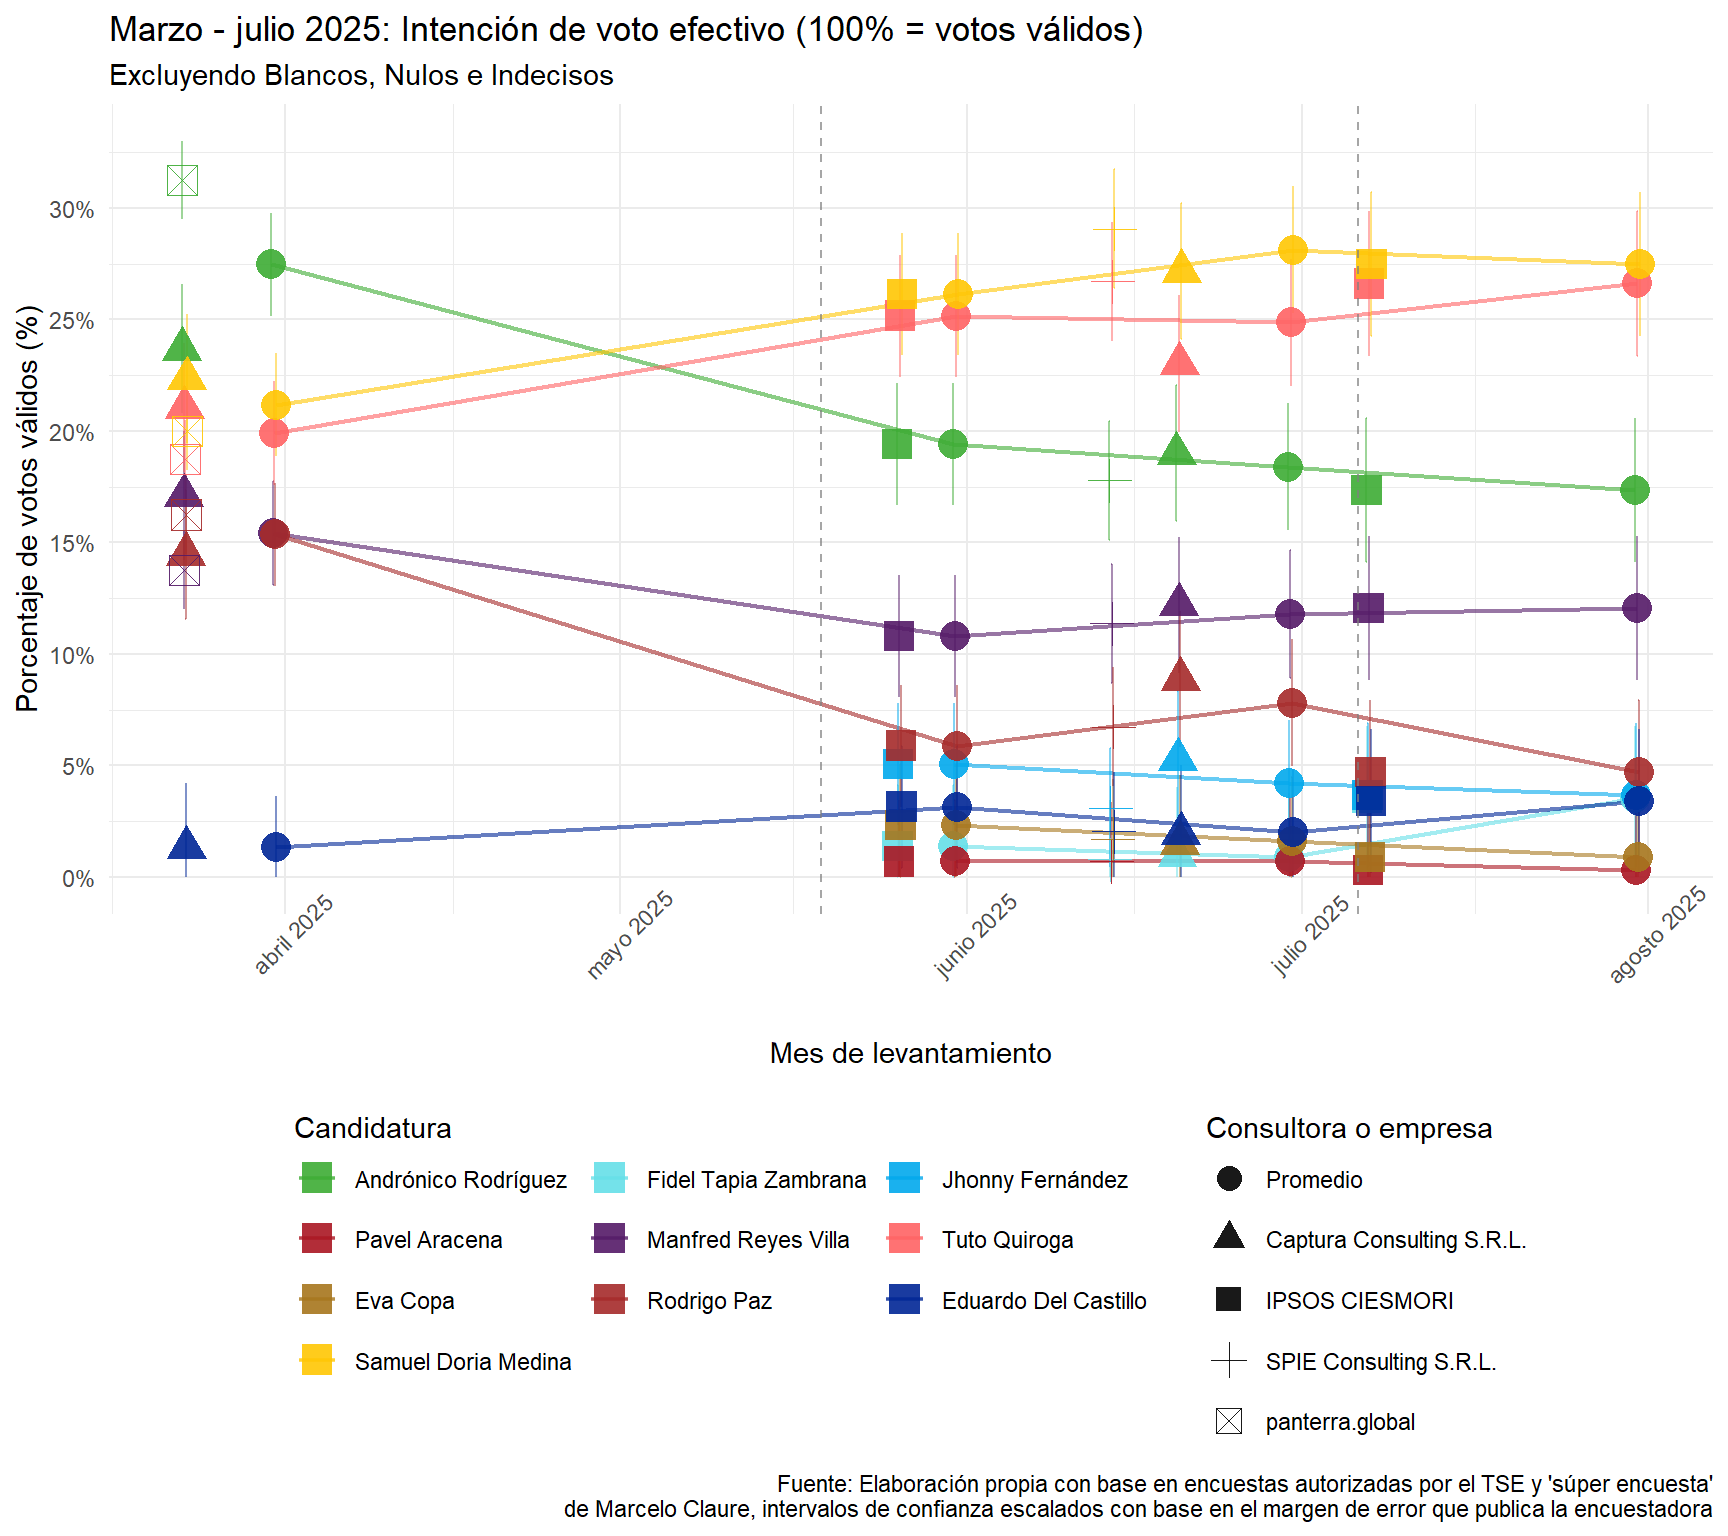
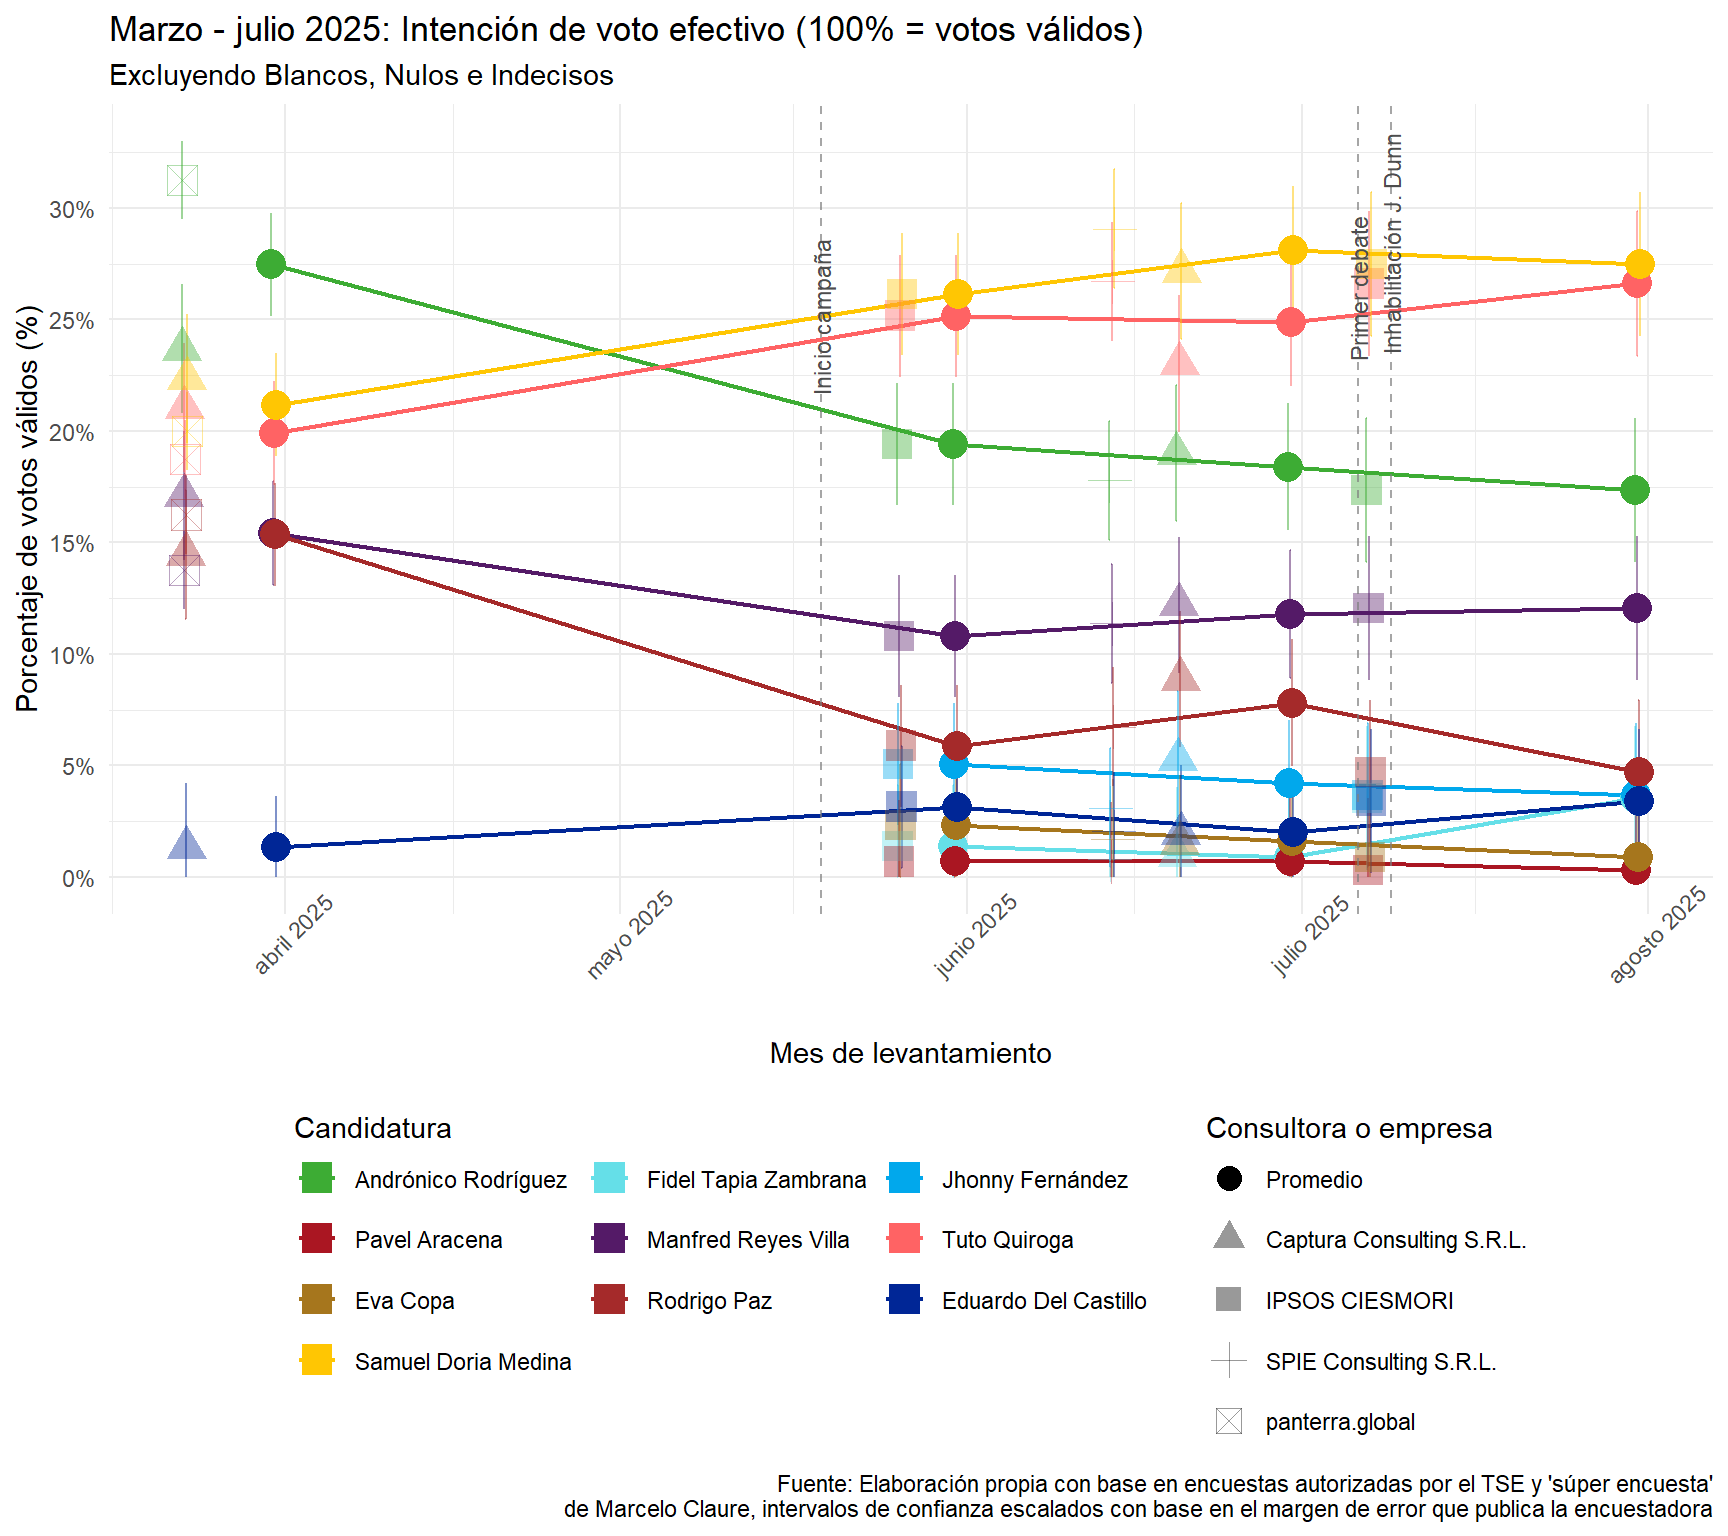
Built site for gh-pages

diff --git a/index.html b/index.html
@@ -141,7 +141,7 @@ ul.task-list li input[type="checkbox"] {
 <header id="title-block-header" class="quarto-title-block default">
 <div class="quarto-title">
 <h1 class="title">Encuesta de encuestas: Elecciones Generales Bolivia 2025</h1>
-<p class="subtitle lead">Última actualización: 13 de julio de 2025</p>
+<p class="subtitle lead">Última actualización: 14 de julio de 2025</p>
 </div>
 
 <div>
@@ -175,7 +175,8 @@ ul.task-list li input[type="checkbox"] {
 
 <section id="registro-de-cambios" class="level2">
 <h2 class="anchored" data-anchor-id="registro-de-cambios">Registro de cambios</h2>
-<p><strong>13/07/2025</strong>: Se añaden los datos de la última encuesta de IPSOS CIESMORI publicada por UNITEL el 13 de julio de 2025. Se optimiza el código para mostrar los promedios de campaña en función de la encuesta más reciente de cada consultora o empresa encuestadora (i.e.&nbsp;IPSOS CIESMORI es la única empresa que cuenta con dos encuestas durante el periodo de campaña, el cálculo de los promedio se hace con la intención de voto de su encuesta publicada hoy, es decir, el más reciente). Se añade nueva sección con los valores de intención de voto más recientes. Dado que NGP se ha retirado de la carrera electoral sus valores quedarán como perdidos de ahora en adelante. Se añaden rectas verticales marcandl algunos hitos como el inicio de campaña y el primer debate.</p>
+<p><strong>14/07/2025</strong>: Se introducen algunas ideas a la luz de los datos arrojados por la última encuesta de IPSOS CIESMORI. Se actualiza la presentación.</p>
+<p><strong>13/07/2025</strong>: Se añaden los datos de la última encuesta de IPSOS CIESMORI publicada por UNITEL el 13 de julio de 2025. Se optimiza el código para mostrar los promedios de campaña en función de la encuesta más reciente de cada consultora o empresa encuestadora (i.e.&nbsp;IPSOS CIESMORI es la única empresa que cuenta con dos encuestas durante el periodo de campaña, el cálculo de los promedio se hace con la intención de voto de su encuesta publicada hoy, es decir, el más reciente). Se añade nueva sección con los valores de intención de voto de la encuesta más reciente. Dado que NGP se ha retirado de la carrera electoral sus valores quedarán como perdidos de ahora en adelante. Se añaden rectas verticales marcando algunos hitos como el inicio de campaña, el primer debate y la inhabilitación de Jaime Dunn.</p>
 <p><strong>02/07/2025</strong>: Ante la inhabilitación de Jaime Dunn se cambia la etiqueta de candidato de NGP a Fidel Tapia Zambrana. La salida de Antonio Saravia también deja como el único candidato visible a Pavel Aracena por LyP-ADN. Modificaciones estéticas en gráficas de intención de voto para que den cuenta de la fecha del fin del levantamiento de las encuestas, se agrupó mayo y junio para gráficas de intención voto desde el inicio de campaña.</p>
 <p><strong>01/07/2025</strong>: Añadidas etiqueta de datos sobre barras promedio en gráficas de intención voto total e intención voto válido.</p>
 <p><strong>30/06/2025</strong>: Se añade información de la segunda encuesta de Captura Consulting publicada por Red Uno y RTP publicada en esta fecha. También se agrega la primera encuesta de la misma consultora, que corresponde al periodo de fines de marzo. Se introducen algunas modificaciones menores al análisis e interpretación en función de la nueva información. Optimizaciones, cambios estéticos menores en gráficas y correción ortográfica y de estilo del texto.</p>
@@ -185,14 +186,21 @@ ul.task-list li input[type="checkbox"] {
 <h2 class="anchored" data-anchor-id="presentación">Presentación</h2>
 <p>Este es un ejercicio de análisis electoral y visualización de datos inspirado en el trabajo de <a href="https://polls.politico.mx/">Político.mx</a>, la idea es recopilar en una base de datos públicas las encuestas oficiales (y tal vez las no oficiales) para compararlas en el tiempo. La base de datos se encuentra en este <a href="https://docs.google.com/spreadsheets/d/1Nr5mlVI1PAIXpaOtmRugJbwyriQYlAUt5Ldehq8VZ6E/edit?gid=0#gid=0">archivo de sheets</a> y el diccionario de datos en este <a href="https://docs.google.com/spreadsheets/d/1VJZkKd5dDWnHzbOO3G4o7yeW8jh1GZJIhykaApI05MQ/edit?gid=1761737635#gid=1761737635">otro</a></p>
 <p>Si quieres saber quién soy yo, puedes consultar mi linkedIn <a href="https://www.linkedin.com/in/hescalar/">aquí</a>.</p>
-<p>En esta primera versión he optado por cubrir la mayor cantidad de información disponible y que sea mínimamente comparable. En este sentido, se han incluido dos encuestas no “oficiales”, es decir, que no se encontraban autorizadas ni fueron fiscalizadas por el Tribunal Supremo Electoral TSE al momento de su realización -pues todavía no había necesidad de ello, según los tiempos electorales marcados por el calendario electoral del TSE. Me refiero a la “súper encuesta” de Marcelo Claure y la consultora “panterra.global” y a la primera encuesta que realizó Captura Consulting para Red UNO y RTP. Ambas operaciones estadísticas corresponden al periodo de marzo del presente año.</p>
+<p>Se ha buscado cubrir la mayor cantidad de información disponible y que sea mínimamente comparable. En este sentido, se han incluido dos encuestas no “oficiales”, es decir, que no se encontraban autorizadas ni fueron fiscalizadas por el Tribunal Supremo Electoral TSE al momento de su realización -pues todavía no había necesidad de ello, según los tiempos electorales marcados por el calendario electoral del TSE. Me refiero a la “súper encuesta” de Marcelo Claure y la consultora “panterra.global” y a la primera encuesta que realizó Captura Consulting para Red UNO y RTP. Ambas operaciones estadísticas corresponden al periodo de marzo del presente año y no reflejaban exactamente los mismos candidatos pero sí casi todas las fuerzas políticas (i.e.&nbsp;el contendiente del MAS era Lucho Arce y el de PDC era Chi Hyun Chung y no Rodrigo Paz); de todas maneras, los tres candidatos que ocupaban los tres primeros lugares sí con comparables.</p>
 <p>Si bien hay sondeos de opinión todavía más antiguos, partir de tres meses atrás parece ser un buen punto de referencia para observar y explicar algunos cambios recientes en las tendencias. Sin embargo, espero que las encuestas a publicarse en el futuro puedan brindar una base sólida para emprender análisis con mayor potencia estadística y mayor complejidad en la reflexión.</p>
+<p>Las tareas pendientes identificadas son:</p>
+<ol type="1">
+<li><p>Análisis del comportamiento del voto oculto/indecisos.</p></li>
+<li><p>Análisis histórico de la precisión de las encuestadoras en elecciones pasadas.</p></li>
+<li><p>Análisis histórico del voto rural y su subestimación en las encuestas.</p></li>
+<li><p>Breve revisión del padrón electoral.</p></li>
+</ol>
 </section>
 <section id="intención-de-voto-bolivia-última-encuesta-disponible" class="level2">
 <h2 class="anchored" data-anchor-id="intención-de-voto-bolivia-última-encuesta-disponible">Intención de voto Bolivia: Última encuesta disponible</h2>
 <p>Fecha de publicación: 13 de julio</p>
 <p>Consultora o empresa encuestadora: IPSOS CIESMORI</p>
-<p>Medio de publicaciónx: UNITEL</p>
+<p>Medio de publicación: UNITEL</p>
 <div class="cell">
 <div class="cell-output-display">
 <p><img src="index_files/figure-html/grafico-ultimaencuesta-1.png" class="img-fluid" width="864"></p>
@@ -211,15 +219,15 @@ ul.task-list li input[type="checkbox"] {
 <ol type="1">
 <li><p><strong>Promedio de indecisos en encuestas recientes</strong>:<br>
 <span class="math display">\[
-\text{Promedio}_{\text{indecisos, blancos y nulos}} = \frac{17\%\,(\text{SPIE}) + 27\%\,(\text{IPSOS}) + 28\%\,(\text{Captura})}{3} = 24\%
+\text{Promedio}_{\text{indecisos, blancos y nulos}} = \frac{17\%\,(\text{SPIE}) + 33\%\,(\text{IPSOS}) + 28\%\,(\text{Captura})}{3} = 26\%
 \]</span></p></li>
 <li><p><strong>Ajuste por votos nulos/blancos históricos</strong>:<br>
 Asumiendo que, en etapas finales, alrededor del 5% de los votos serán nulos o blancos (basado en tendencias históricas), el porcentaje estimado de electores indecisos con voto válido sería:<br>
 <span class="math display">\[
-\text{Indecisos}_{\text{válidos}} = \text{Promedio}_{\text{indecisos, blancos y nulos}} - 5\% = \mathbf{19\%}
+\text{Indecisos}_{\text{válidos}} = \text{Promedio}_{\text{indecisos, blancos y nulos}} - 5\% = \mathbf{21\%}
 \]</span></p></li>
 </ol>
-<p>Por lo tanto, aproximadamente <strong>19% del electorado</strong> emitirá un voto válido pero aún no se ha definido por ninguna candidatura. En un contexto de crisis, es probable que esta decisión se retrase hasta el último momento, a menos que un evento catalizador permita a los votantes inclinarse por una opción o descartar alternativas.</p>
+<p>Por lo tanto, aproximadamente <strong>21% del electorado</strong> emitirá un voto válido pero aún no se ha definido por ninguna candidatura. En un contexto de crisis, es probable que esta decisión se retrase hasta el último momento, a menos que un evento catalizador permita a los votantes inclinarse por una opción o descartar alternativas.</p>
 <p>Cabe destacar que los hallazgos de todas las encuestadoras muestran cierto grado de consistencia. Todas coinciden en las candidaturas que ocupan el primero, segundo y tercer lugar. Eso sí, las mayores diferencias estadísticamente significativas, es decir, tomando en cuenta los márgenes de error, se dan en la separación porcentual entre los candidatos, como se explica a continuación.</p>
 <p>Llama la atención las estimaciones para la candidatura de UNIDAD (Samuel Doria Medina), a quien SPIE Consulting sitúa en el primer lugar con cerca del 25%, mientras que IPSOS CIESMORI también declara ganador a Samuel, pero lo hace con 5% menos, y con una diferencia casi nula con el segundo lugar, ocupado por Tuto Quiroga (LIBRE). Captura Consulting muestra las mismas tendencias, pero con márgenes todavía más modestos, Samuel sería el ganador con 19.6%, seguido por Tuto Quiroga con 16.6% puntos porcentuales menos; esta diferencia de Captura Consulting comparada con las otras encuestas se explica porque también recoge los niveles de indecisión más altos con 15.5%, al igual que nulos y blancos (12.4% si sumamos estos últimos).</p>
 <p>Si hablamos de las diferencias entre los primeros y segundos lugares, estas no son estadísticamente significativas en ningún caso. El tercer lugar lo ocupa Andrónico Rodríguez (Alianza Popular). Según IPSOS CIESMORI, el presidente del senado se encuentra relativamente cerca de Tuto -alrededor de 4.2 puntos y a casi 5 puntos de Samuel, pero SPIE Consulting lo posiciona a más de 7 puntos del segundo lugar y casi 10 puntos del primero; Captura Consulting pone a Rodríguez a 3 puntos del segundo lugar y 5 puntos del primero. Este margen relativamente amplio y por encima de los errores estadísiticos proyectados puede ser síntoma de que alguna de las consultoras está errada en la distancia entre Rodríguez y el segundo y primer lugar, o de que hay diferencias cualitativas entre el electorado explicados por los cambios en la coyuntura correspondiente los periodos de levantamiento.</p>
@@ -230,9 +238,18 @@ Asumiendo que, en etapas finales, alrededor del 5% de los votos serán nulos o b
 <p><img src="index_files/figure-html/grafico-total2-1.png" class="img-fluid" width="864"></p>
 </div>
 </div>
-<p>Sobra decir que la inestabilidad política, la improvisación de los partidos políticos, la judicialización de la elección y la endeble respuesta del Tribunal Supremo Electoral no han permitido que las campañas despeguen. Muchos de los partidos iniciaron oficialmente sus campañas el fin de semana del 28 de junio. Según el calendario electoral, los partidos pueden presentar sustitutos hasta 45 días antes de la elección en caso de que los candidatos renuncien, esto es, hasta el viernes 4 de julio. En otras palabras, no será hasta esa fecha que se cierren las negociaciones políticas y podamos conocer a las candidaturas “firmes”. Después de ese día, las únicas sustituciones de candidaturas podrán ser por causa de inhabilitación, fallecimiento o incapacidad total.</p>
+<p>Sobra decir que la inestabilidad política, la improvisación de los partidos políticos, la judicialización de la elección y la endeble respuesta del Tribunal Supremo Electoral no han permitido que las campañas despeguen. Muchos de los partidos iniciaron oficialmente sus campañas el fin de semana del 28 de junio. Según el calendario electoral, los partidos pueden presentar sustitutos hasta 45 días antes de la elección en caso de que los candidatos renuncien, esto es, hasta el viernes 4 de julio. En otras palabras, no será hasta esa fecha que se cierren las negociaciones políticas y podamos conocer a las candidaturas “firmes”. Después de ese día, las únicas sustituciones de candidaturas podrán ser por causa de inhabilitación, fallecimiento o incapacidad total. En este sentido, los dos hechos reciente más importante fueron la inhabilitación de Jaime Dunn, el 9 de julio, incluyendo su eliminación de la papeleta; y la negativa definitiva del TSE a la candidatura de Evo Morales con motivo de no haber sido inscrito por ninguna sigla habilitada para estos comicios.</p>
 <p>Justamente entrando en la dinámica, es estrepitosa la caída de casi 10 puntos que sufre Andrónico entre fines de marzo y mediados de junio. Mucho ha sucedido en todo este tiempo, el conflicto entre los grupos evistas y el gobierno, su constante inacción ante los embates de sus adversarios (internos y externos) y la escisión definitiva del MAS en tres bloques (el MAS-IPSP como tal, el mismo Andrónico y el grupo evista) parecen haber cobrado una dolorosa factura. Sin embargo, considero también que resulta en el candidato más conciliador y con mayor potencial de crecimiento desde el movimiento popular. Eduardo del Castillo le está representando al MAS-IPSP el nivel de preferencia electoral más bajo en casi 25 años, no me animo a decir si el rechazo se debe a su persona como tal o más bien a que el electorado sigue viendo en él la sombra de Lucho Arce, quién se encuentra en mínimos históricos de aprobación. Y claro, es muy difícil que uno de los ministros más visibles del oficialismo logre desvincular su imagen de la del gobierno arcista a unos meses de las elecciones, por mucho que lo haya estado intentando. Junto el MAS-IPSP se ven 3 candidaturas más que, estadísticamente hablando podrían tener votaciones prácticamente nulas, Eva Copa (MORENA), Antonio Saravia (Libertad y Progreso) y Jaime Dunn (Nueva Generación Patriótica) - en caso de que este último siquiera llegue a ser habilitado.</p>
-<p>Parece ser que, aquellos ultra-libertarios que en sus sueños más guajiros pensaron que era posible un Milei boliviano, van a amanecer mojados. Esto no quita que, y en función de lo que todas las candidaturas han manifestado, sin importar quien gane la elección, el ajuste económico y los correspondientes costos sociales para las clases más vulnerables serán inevitables, pero ese es tema de otro tipo de análisis.</p>
+<p>Parece ser que, aquellos ultra-libertarios que en sus sueños más guajiros pensaron que era posible un Milei boliviano, van a amanecer mojados. La inhabilitación de Dunn y la renuncia de Antonio Saravia confirman lo dicho.</p>
+<p>Esto no quita que, y en función de lo que todas las candidaturas han manifestado, sin importar quien gane la elección, el ajuste económico y los correspondientes costos sociales para las clases más vulnerables serán inevitables, pero ese es tema de otro tipo de análisis.</p>
+<p>Tomando en cuenta la última información del mes de julio, en función de los datos de la segunda encuesta de IPSOS CIESMORI, la diferencia entre Samuel Doria Medina (primero) y Tuto Quiroga (segundo) es cada vez más cerrada (apenas 0.6%), mientras que la intención de voto de Andrónico Rodríguez sigue cayendo, alcanzando apenas un 11.8%. Esta encuesta fue levantada casi inmediatamente después del primer gran debate presidencial organizado por la Red UNO, en el que participaron Samuel Doria Medina, Tuto Quiroga, Johnny Fernández Manfred Reyes Villa y Eduardo del Castillo. Podría ser que la ausencia de Andrónico Rodríguez en dicho evento haya jugado en contra, sin embargo, si vemos cómo se mueve la votación parece más probable que los puntos que perdió Rodríguez hayan ido a parar al voto indeciso, nulo y blanco, puesto que Tuto y Samuel también han perdido votación, aunque en menor medida.</p>
+<p>Lo observado parece ser síntoma de que <strong>el primer debate de los candidatos de cara al país generó más dudas que certezas</strong>. Tampoco puede menospreciarse el papel del ala evista del masismo histórico (hoy en la inhabilitada sigla PAN-BOL) y su máximo líder, Evo Morales Ayma, quienes han llamado expresamente al voto nulo, negando así su bendición a Rodríguez, a pesar de que este resultaría el actor más cercano al evismo de todas las candidaturas que aparecen en la papeleta electoral.</p>
+<p>Tampoco pueden subestimarse tres elementos:</p>
+<ol type="1">
+<li><p>El voto oculto que ha acompañado al masismo en las últimas 2 elecciones y que terminó dando la sorpresa en los comicios de 2019 y 2020.</p></li>
+<li><p>Los altos márgenes de error de las encuestas desagregadas a nivel departamental, que en La Paz son de 5.4%, Cochabamba 5.5% y Santa Cruz 5.4%, dado que estos departamentos representan al 73.5% del padrón electoral.</p></li>
+<li><p>La subestimación del voto en el área rural para la encuesta de IPSOS CIESMORI a principios de julio, pues dado el contexto geográfico y un operativo de campo tan corto, resulta cuando menos improbable que se haya cubierto el área dispersa con un muestreo adecuado.</p></li>
+</ol>
 </section>
 <section id="gráficos-de-intención-de-votos-válidos" class="level2">
 <h2 class="anchored" data-anchor-id="gráficos-de-intención-de-votos-válidos">Gráficos de intención de votos válidos</h2>
